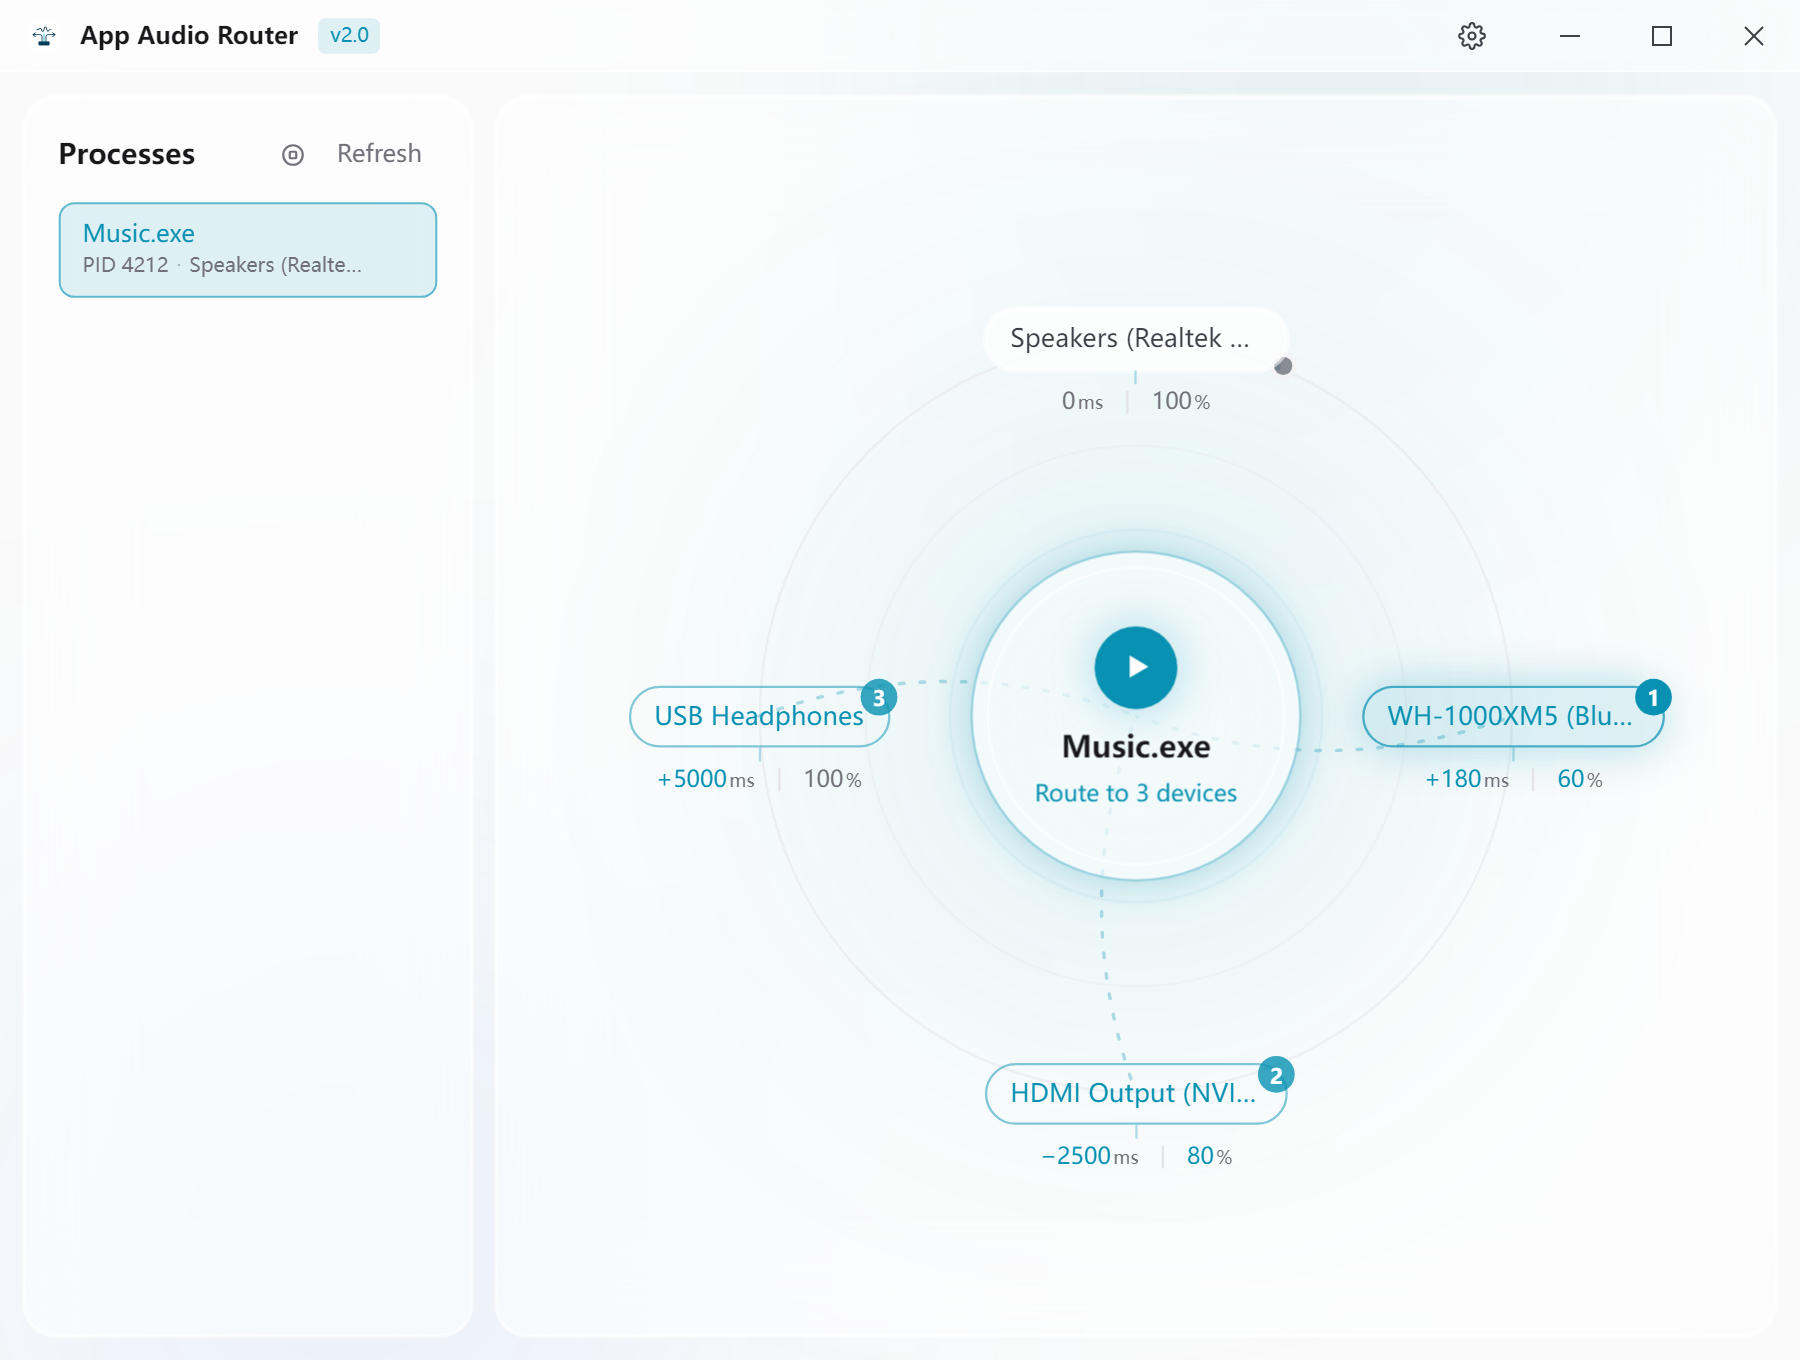
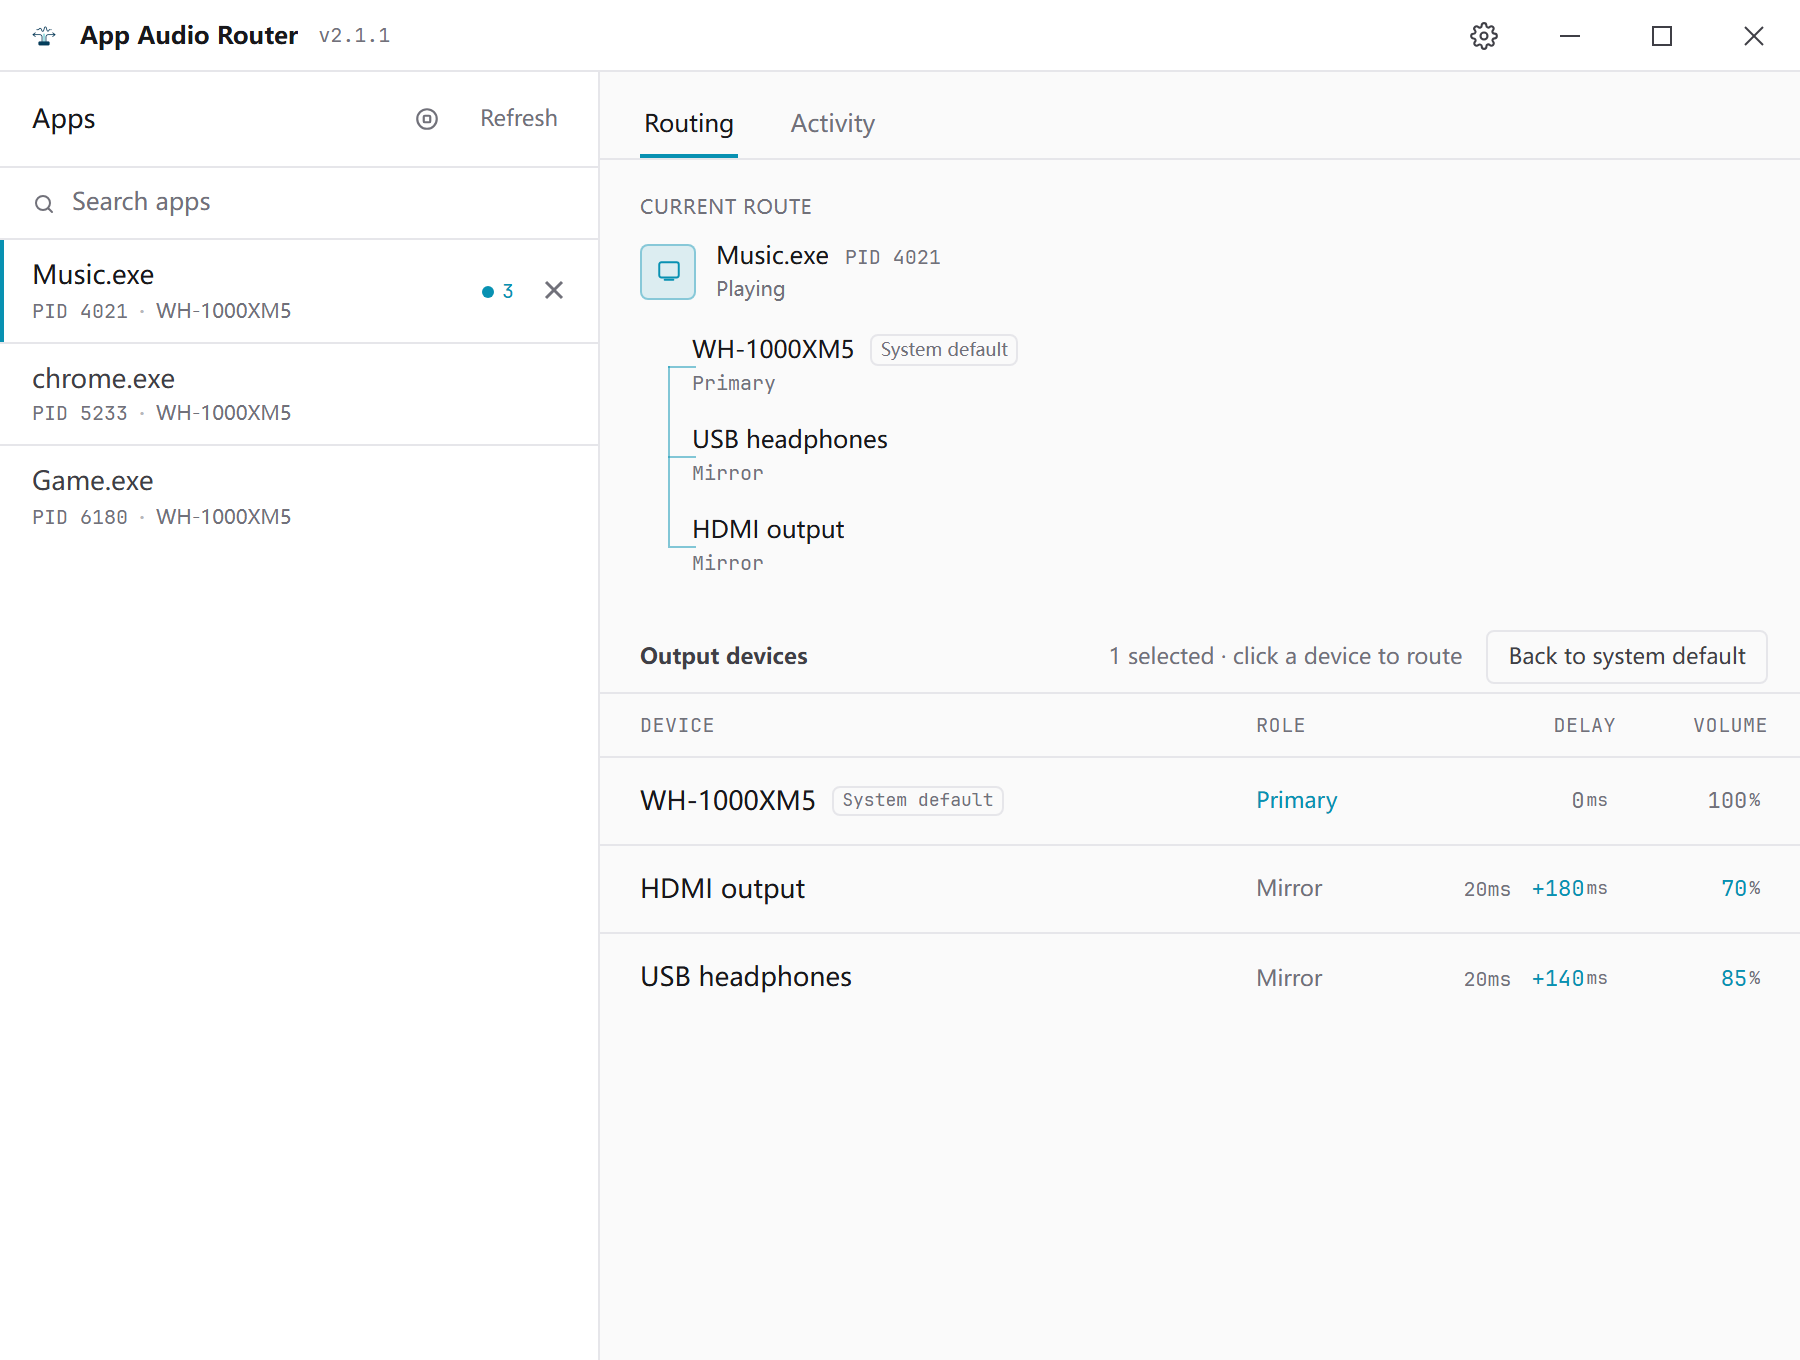
docs(images): recapture the README screenshots from the flat interface

diff --git a/e2e/screenshots.spec.ts b/e2e/screenshots.spec.ts
@@ -1,0 +1,84 @@
+import { expect, test } from '@playwright/test';
+import { appRow, deviceRow, routeConfirmButton } from './fixtures';
+import { installBridge } from './tauri/bridge';
+
+/**
+ * The two README screenshots, captured from the app itself.
+ *
+ * On demand only: the images are checked in, so rewriting them belongs to the
+ * change that alters the interface, not to every test run.
+ *
+ *   CAPTURE_SCREENSHOTS=1 pnpm exec playwright test e2e/screenshots.spec.ts
+ *
+ * The audio graph is the same fake runtime the specs use, so the shot does not
+ * depend on what is plugged into the machine that took it — the device names in
+ * it are scripted, and the route is applied through the real UI rather than
+ * poked into the store.
+ */
+
+const ENABLED = process.env.CAPTURE_SCREENSHOTS === '1';
+
+/** The default window size, at 2× for a screen that is not a retina one. */
+test.use({ viewport: { width: 900, height: 680 }, deviceScaleFactor: 2 });
+
+test.skip(
+  !ENABLED,
+  'README screenshots are captured on demand: CAPTURE_SCREENSHOTS=1 playwright test e2e/screenshots.spec.ts',
+);
+
+/** One program routed to three devices: the headset it was already on, plus two
+ * wired outputs held back so all three arrive together. */
+const STATE = {
+  devices: [
+    { id: 'bt', name: 'WH-1000XM5' },
+    { id: 'hdmi', name: 'HDMI output' },
+    { id: 'usb', name: 'USB headphones' },
+  ],
+  sessions: [
+    { pid: 4021, exe_name: 'Music.exe' },
+    { pid: 5233, exe_name: 'chrome.exe' },
+    { pid: 6180, exe_name: 'Game.exe' },
+  ],
+  defaultDeviceId: 'bt',
+  remembered: [],
+  delays: [
+    ['hdmi', 180],
+    ['usb', 140],
+  ],
+  volumes: [
+    ['hdmi', 70],
+    ['usb', 85],
+  ],
+};
+
+for (const theme of ['light', 'dark'] as const) {
+  test(`capture the ${theme} theme`, async ({ page }) => {
+    await page.emulateMedia({ colorScheme: theme });
+    // The expert columns carry the delay and volume values the README talks
+    // about, and they are off until the advanced switch says otherwise.
+    await page.addInitScript(() => window.localStorage.setItem('aar-advanced-mode', '1'));
+
+    await installBridge(page, STATE);
+    await page.goto('/');
+    await expect(page.getByRole('heading', { name: 'Apps' })).toBeVisible();
+    await expect(page.getByText('Music.exe').first()).toBeVisible();
+
+    // Selecting the app stages the system default device, and the first click
+    // on another device replaces that guess rather than adding to it — so the
+    // click is undone first, which is what leaves the headset as the primary
+    // and the two wired outputs as the copies.
+    await appRow(page, 'Music.exe').click();
+    await deviceRow(page, 'HDMI output').click();
+    await deviceRow(page, 'HDMI output').click();
+    await deviceRow(page, 'WH-1000XM5').click();
+    await deviceRow(page, 'HDMI output').click();
+    await deviceRow(page, 'USB headphones').click();
+    await routeConfirmButton(page).click();
+
+    // Let the undo offer expire: the shot is of the resting state, not of the
+    // moment after the click.
+    await expect(page.getByRole('button', { name: 'Undo' })).toBeHidden({ timeout: 15_000 });
+
+    await page.screenshot({ path: `docs/images/app-audio-router-${theme}.png` });
+  });
+}

diff --git a/AGENTS.md b/AGENTS.md
@@ -434,6 +434,17 @@ pnpm tsc --noEmit
 # 构建
 pnpm tauri build
 
+# 单测（Vitest）
+pnpm test
+
+# E2E（Playwright，假 Tauri IPC；跑之前先起 `pnpm dev --port 1420`）
+pnpm test:e2e
+
+# 重拍 README 的两张截图（按需要手动跑，平时会被 skip）
+# 输出 docs/images/app-audio-router-{light,dark}.png，900×680 @2x
+# 画面由 e2e/tauri/bridge.ts 的脚本化音频图驱动，所以换机器也一致
+CAPTURE_SCREENSHOTS=1 pnpm exec playwright test e2e/screenshots.spec.ts
+
 # Rust 检查
 cd src-tauri && cargo check
 
